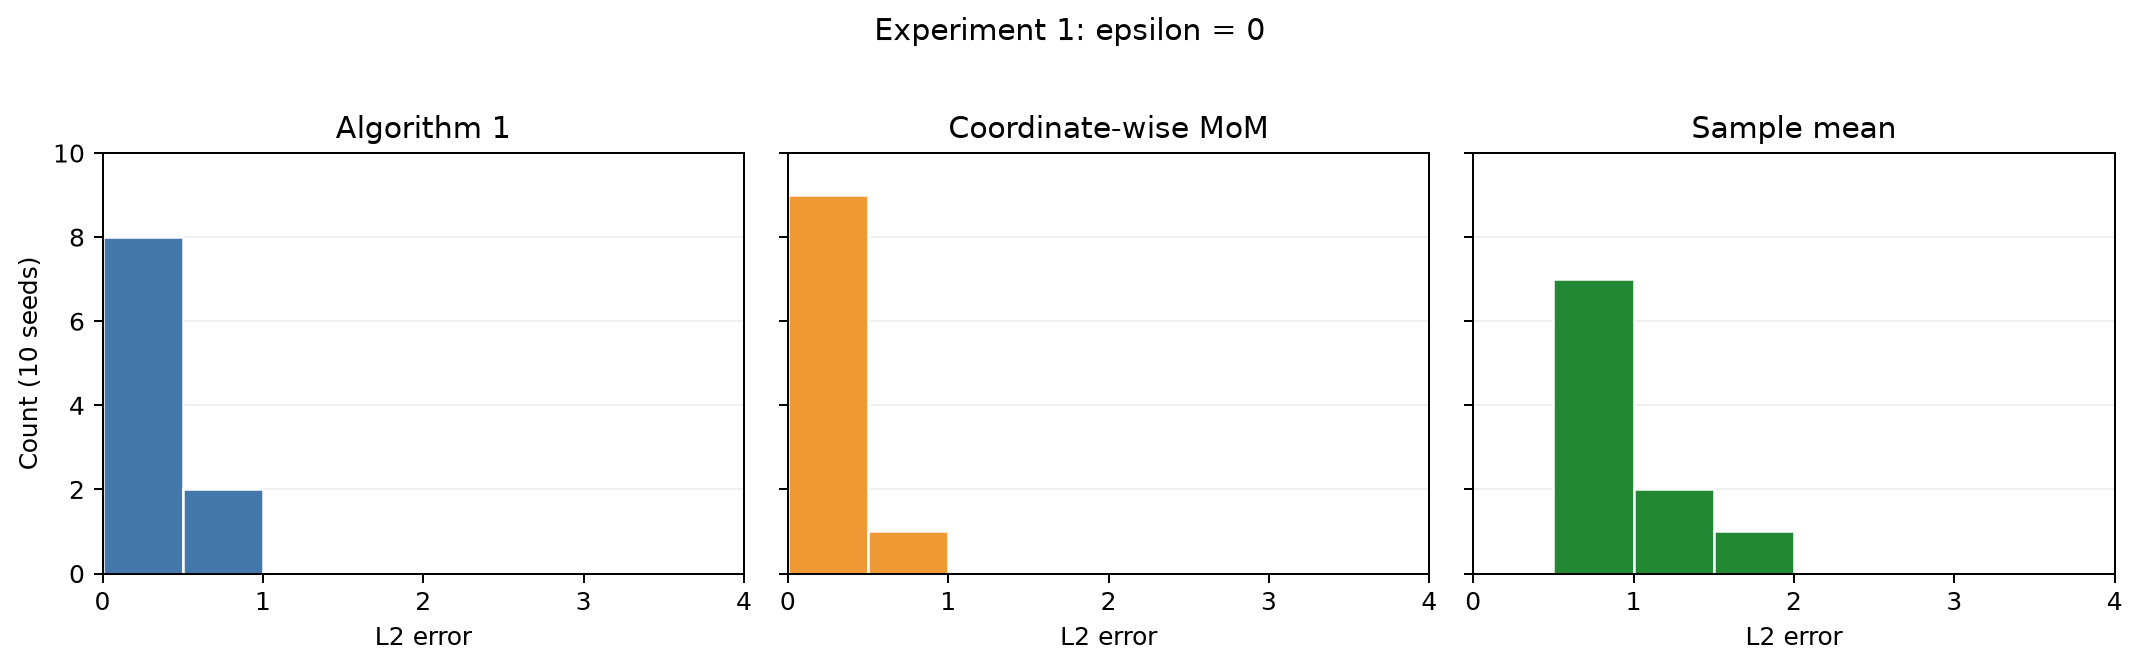
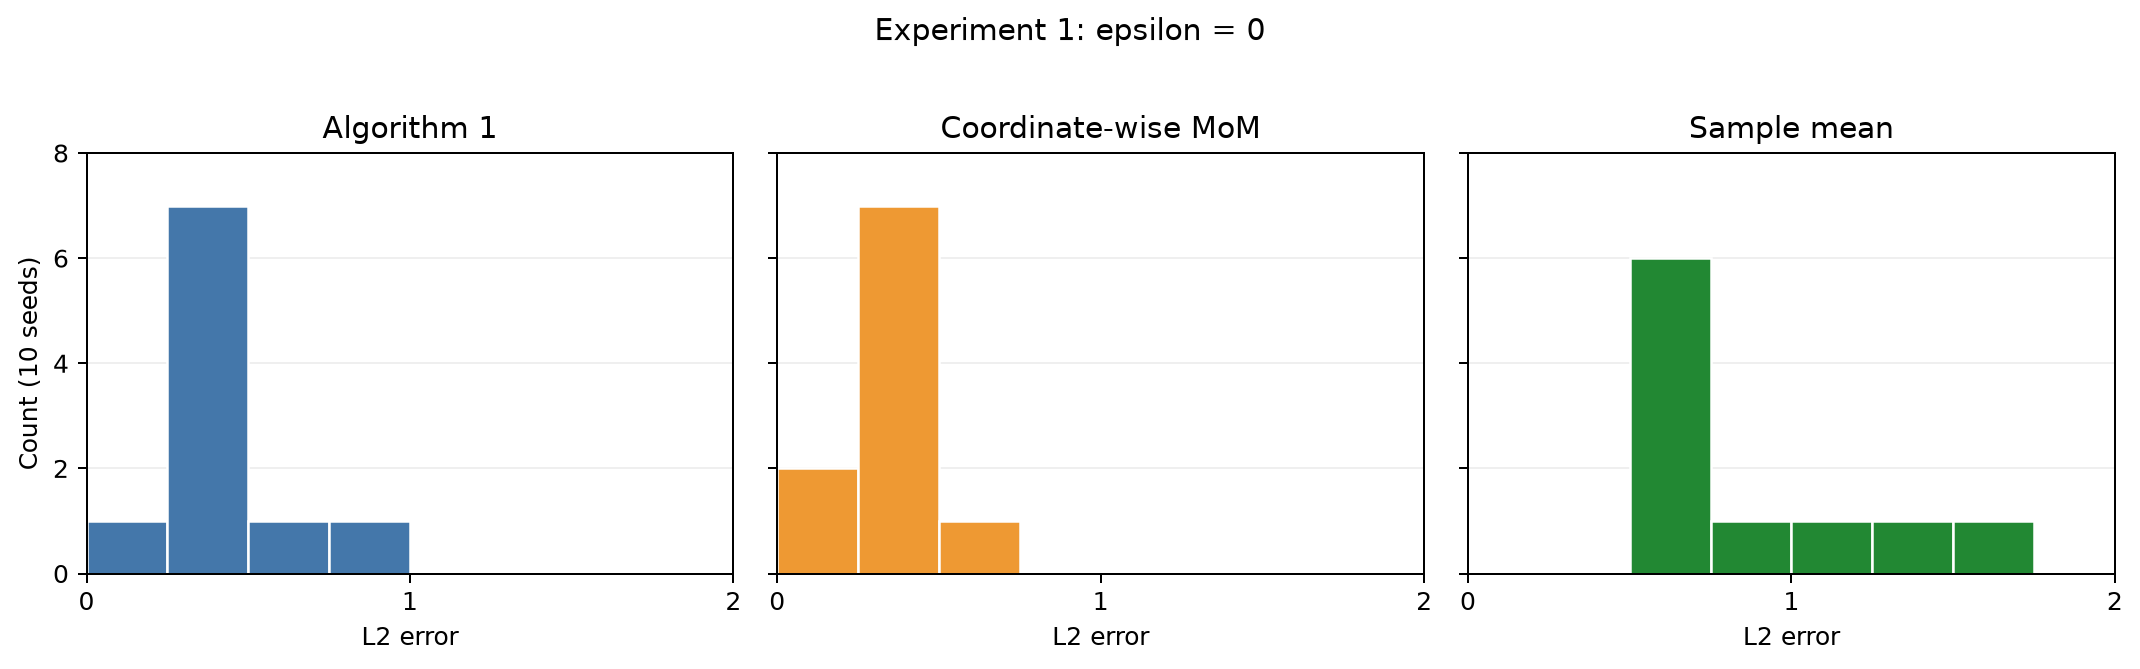
added slightly larger scale

diff --git a/results.md b/results.md
@@ -1,6 +1,6 @@
 # Experiments
 
-Experiments setup: multivariate $t_3$ with shape $I_{20}$ and a 5-sparse mean. Each seed draws one amplitude from Uniform$(1,3)$ and a random support. Seeds 0–9 use the same clean samples in both experiments. Defaults: $C=2$, $\delta=0.05$, attack strength $30$, $\overline\lambda=6$, and $e_{\mathrm{tol}}=\sqrt{K\overline\lambda/n}/4$. Runtimes include estimator preprocessing but exclude shared data generation; up to four one-thread runs were processed concurrently. Support recovery is the fraction of true active coordinates selected; it is not defined for the dense sample mean. Both figures use identical 0.5-wide bins and x/y limits.
+Experiments setup: multivariate $t_3$ with shape $I_d$ and a 5-sparse mean. Each seed draws one amplitude from Uniform$(1,3)$ and a random support. For fixed $(n,d)$, seeds 0–9 use the same clean samples across contamination settings. Defaults: $C=2$, $\delta=0.05$, attack strength $30$, $\overline\lambda=6$, and $e_{\mathrm{tol}}=\sqrt{K\overline\lambda/n}/4$. Runtimes include estimator preprocessing but exclude shared data generation; up to four one-thread runs were processed concurrently. Support recovery is the fraction of true active coordinates selected; it is not defined for the dense sample mean. Within each figure, all three methods use identical bins and x/y limits; the limits may differ between experiments.
 
 ## Experiments 1
 
@@ -29,3 +29,33 @@ Brute-force skipped: same 408,076,993-direction, 65.3 GB radius-1 net.
 | Sample mean | 2.878923 | 0.000007 | — |
 
 ![L2 error histograms for Experiment 2](experiment2_error_histograms.png)
+
+## Experiments 3
+
+Results for $(d, s, \delta, \epsilon, n) = (30, 5, 0.05, 0, 150)$; $K=19$:
+
+Brute-force skipped: radius-1 net 41,972,797,833 directions; 10.1 TB array > 16 GB RAM.
+
+| Method | Mean L2 error | Mean runtime (s) | Mean support recovery |
+| --- | ---: | ---: | ---: |
+| Algorithm 1 | 0.246961 | 49.298941 | 1.000 |
+| Coordinate-wise MoM | 0.255429 | 0.000129 | 1.000 |
+| Sample mean | 0.782199 | 0.000005 | — |
+
+![L2 error histograms for Experiment 3](experiment3_error_histograms.png)
+
+## Experiments 4
+
+Results for $(d, s, \delta, \epsilon, n) = (30, 5, 0.05, 0.1, 150)$; $K=31$:
+
+Brute-force skipped: radius-1 net 41,972,797,833 directions; 10.1 TB array > 16 GB RAM.
+
+| Method | Mean L2 error | Mean runtime (s) | Mean support recovery |
+| --- | ---: | ---: | ---: |
+| Algorithm 1 (7/10 completed) | 1.740224 | 1001.043614 | 0.857 |
+| Coordinate-wise MoM (10/10) | 1.686140 | 0.000163 | 0.820 |
+| Sample mean (10/10) | 2.837271 | 0.000005 | — |
+
+Algorithm 1 timed out after 30 minutes for seeds 2, 5, and 7, including solo retries. Its means use only the seven completed seeds and are not 10-seed estimates.
+
+![L2 error histograms for Experiment 4](experiment4_error_histograms.png)
